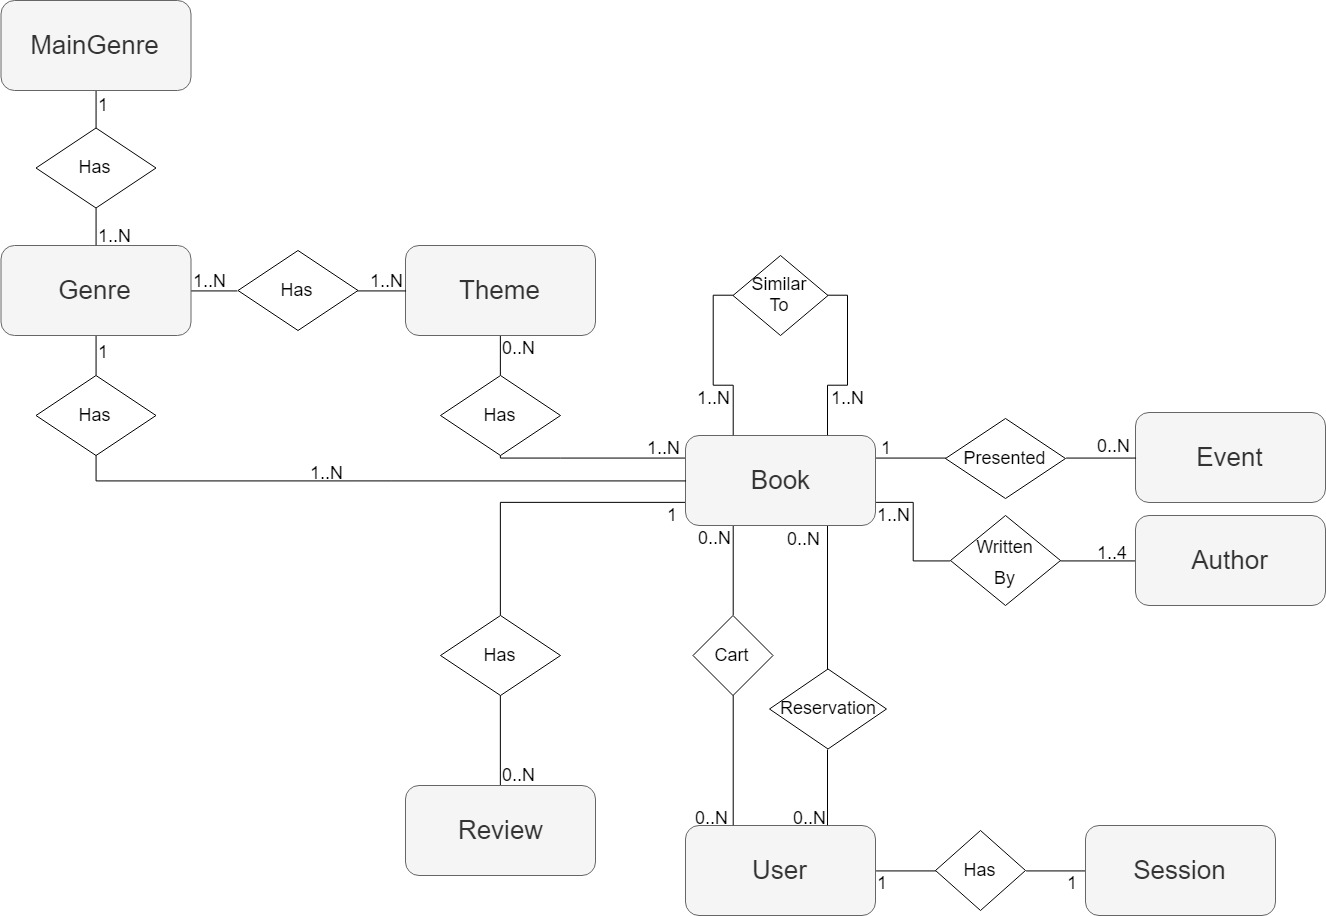
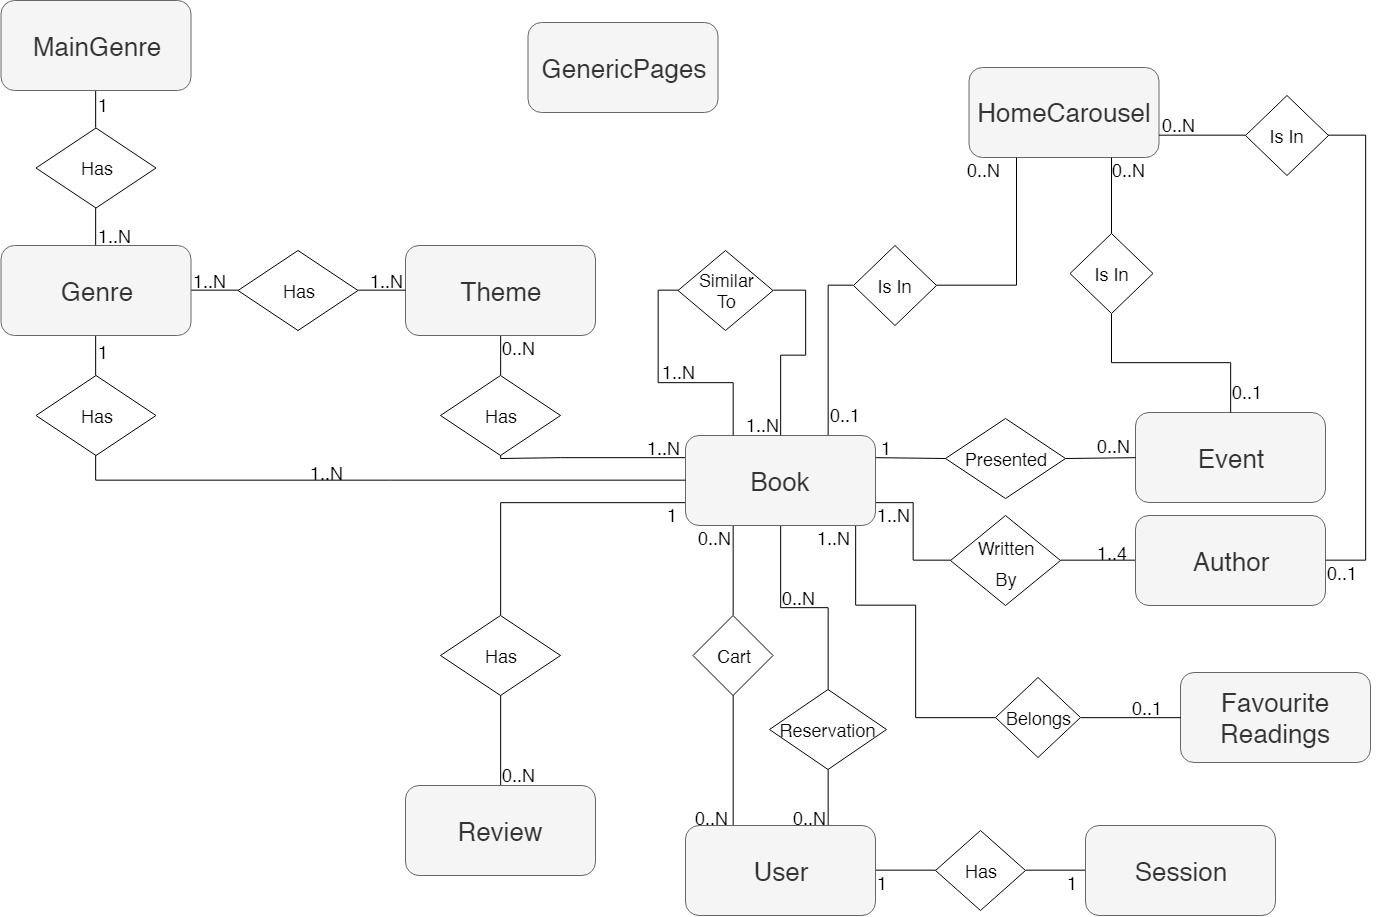
Update backend documentation

diff --git a/public/backend/main.html b/public/backend/main.html
@@ -14,7 +14,9 @@
     <link rel="stylesheet" href="https://use.fontawesome.com/releases/v5.8.1/css/all.css" integrity="sha384-50oBUHEmvpQ+1lW4y57PTFmhCaXp0ML5d60M1M7uH2+nqUivzIebhndOJK28anvf" crossorigin="anonymous">
 
     <link rel="stylesheet" href="../assets/stylesheets/custom-bootstrap.css">
+    <link rel="stylesheet" href="../assets/stylesheets/common.css">
     <link rel="stylesheet" href="../assets/stylesheets/documentation.css">
+
 </head>
 <body>
 
@@ -1243,6 +1245,126 @@
             </div>
         </div>
 
+        <br>
+
+        <div class="row justify-content-start">
+            <div class="col-1">
+
+            </div>
+            <div class="col-11">
+                <h4>HomeCarousel Table</h4>
+            </div>
+        </div>
+
+        <br>
+
+        <div class="row justify-content-center">
+            <div class="col-8 table-responsive">
+                <table class="table table-hover">
+                    <thead>
+                    <tr>
+                        <th scope="col" class="small-col">Table Column</th>
+                        <th scope="col">Description</th>
+                    </tr>
+                    </thead>
+                    <tbody>
+                    <tr>
+                        <th scope="row">CarouselID</th>
+                        <td>The identifier of the Home Carousel element</td>
+                    </tr>
+                    <tr>
+                        <th scope="row">ISBN</th>
+                        <td>The reference to the book identifier, optional</td>
+                    </tr>
+                    <tr>
+                        <th scope="row">authorID</th>
+                        <td>The reference to the author identifier, optional</td>
+                    </tr>
+                    <tr>
+                        <th scope="row">eventID</th>
+                        <td>The reference to the event identifier, optional</td>
+                    </tr>
+                    </tbody>
+                </table>
+            </div>
+        </div>
+
+        <br>
+
+        <div class="row justify-content-start">
+            <div class="col-1">
+
+            </div>
+            <div class="col-11">
+                <h4>FavouriteReadings Table</h4>
+            </div>
+        </div>
+
+        <br>
+
+        <div class="row justify-content-center">
+            <div class="col-8 table-responsive">
+                <table class="table table-hover">
+                    <thead>
+                    <tr>
+                        <th scope="col" class="small-col">Table Column</th>
+                        <th scope="col">Description</th>
+                    </tr>
+                    </thead>
+                    <tbody>
+                    <tr>
+                        <th scope="row">FavouriteID</th>
+                        <td>The identifier of the favourite readings element, which is also the order</td>
+                    </tr>
+                    <tr>
+                        <th scope="row">ISBN</th>
+                        <td>The reference to the book identifier</td>
+                    </tr>
+                    </tbody>
+                </table>
+            </div>
+        </div>
+
+        <br>
+
+        <div class="row justify-content-start">
+            <div class="col-1">
+
+            </div>
+            <div class="col-11">
+                <h4>GenericPages Table</h4>
+            </div>
+        </div>
+
+        <br>
+
+        <div class="row justify-content-center">
+            <div class="col-8 table-responsive">
+                <table class="table table-hover">
+                    <thead>
+                    <tr>
+                        <th scope="col" class="small-col">Table Column</th>
+                        <th scope="col">Description</th>
+                    </tr>
+                    </thead>
+                    <tbody>
+                    <tr>
+                        <th scope="row">PageID</th>
+                        <td>The identifier of the favourite generic page</td>
+                    </tr>
+                    <tr>
+                        <th scope="row">PageName</th>
+                        <td>The name of the page which is stored</td>
+                    </tr>
+                    <tr>
+                        <th scope="row">body</th>
+                        <td>The HTML code of the static page</td>
+                    </tr>
+                    </tbody>
+                </table>
+            </div>
+        </div>
+
 
     </div>
 
@@ -1311,10 +1433,10 @@
                             <tr>
                                 <th scope="row">Luca Napoletano</th>
                                 <td>
-                                    60% on the Node.js Implementation<br>
+                                    40% on the Node.js Implementation<br>
+                                    30% on developing the frontend<br>
                                     15% on OpenAPI specification<br>
-                                    15% on the designing of the ER and the DB implementation<br>
-                                    10% on developing static pages
+                                    15% on the designing of the ER and the DB implementation
                                 </td>
                             </tr>
                         </tbody>
@@ -1354,7 +1476,7 @@
                             <td>
                                 Write OpenAPI specification<br>
                                 Improve the knowledge of Javascript<br>
-                                Have a general knowledge on how a dynamic web application should be done
+                                Have a general knowledge on how a dynamic web application should be, in particular on the way the user personal pages are done
                             </td>
                         </tr>
                         </tbody>
@@ -1364,9 +1486,10 @@
 
     </div>
     </div>
+
     <footer class="footer">
         <div class="container">
-            <div class="row py-4">
+            <div class="row">
                 <div class="col-md-3 col-sm-12 p-3">
                     <h6>About</h6>
                     <p>Founded in 2019 by MiChi Studios, BUK is an online book store developed for the Hypermedia course at Politecnico di Milano</p>

diff --git a/public/assets/stylesheets/documentation.css b/public/assets/stylesheets/documentation.css
@@ -5,6 +5,10 @@
     align-items: center;
 }
 
+body {
+    height: 100%;
+}
+
 .navbar-custom .right-float {
     float: right;
 }
@@ -69,16 +73,8 @@ th.small-col {
     max-width: 100%;
 }
 
-/* Footer */
 .footer {
-    font-size: 9pt;
-    bottom: 0;
-    width: 100%;
-    min-height: 15vh;
+    margin-top: auto;
+    font-size: 1em;
     background-color: #ebebeb;
-}
-
-.footer .fab {
-    font-size: 1.6em;
-    margin: 0.2em;
 }
